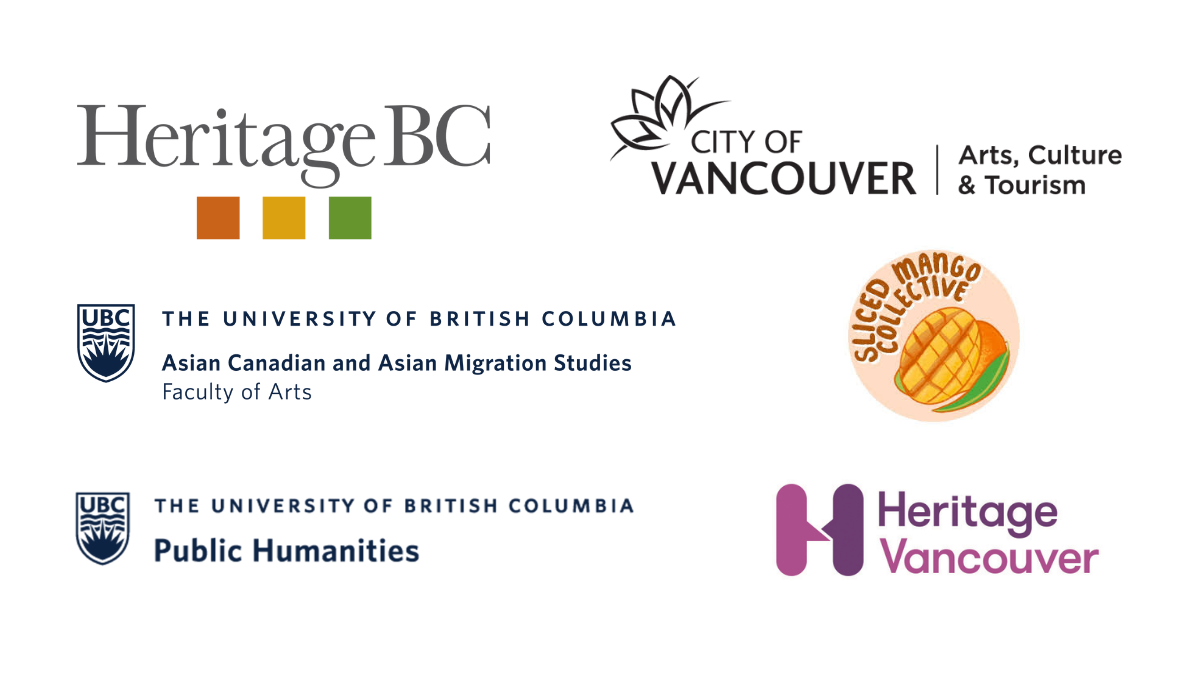
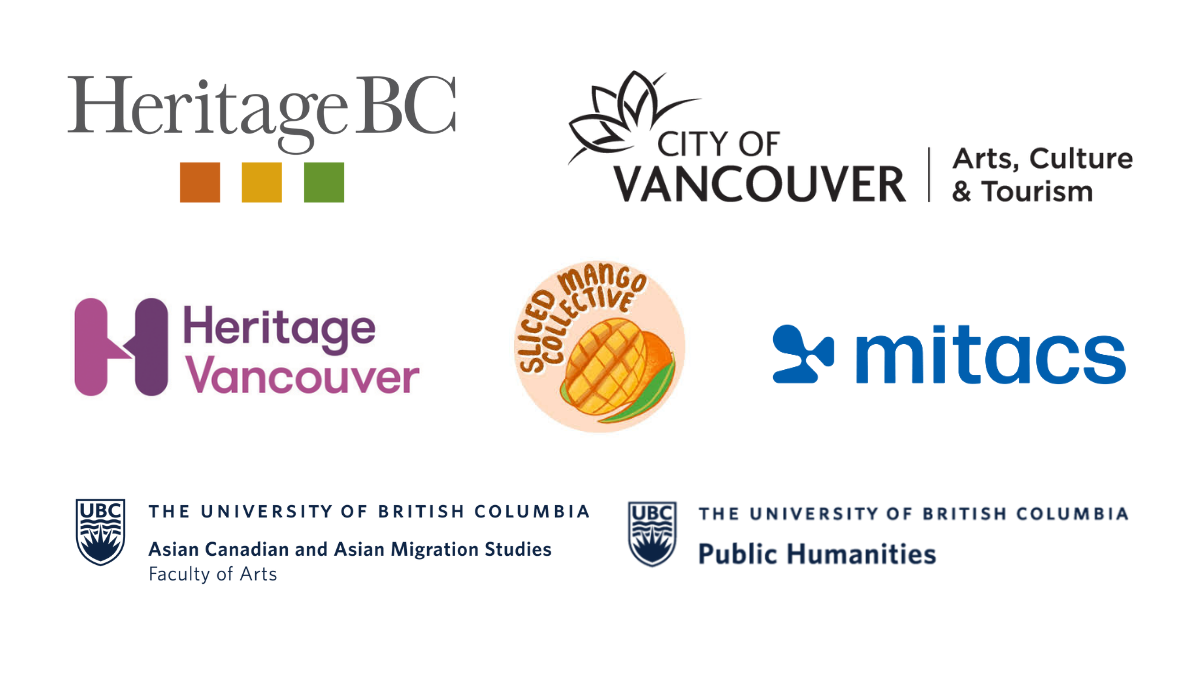
updated about, sponsors, and metadata file

diff --git a/pages/about.md b/pages/about.md
@@ -44,19 +44,30 @@ We were fortunate that an opportunity came up with the one time Provincial 150 T
 
 ## Project Team
 
+**[Sliced Mango Collective](https://www.instagram.com/slicedmangoco/)**
 - Anne Claire Baguio
-- JP Catungal
-- Sydney Lines
-- Jasper Mallonga 
+- Jasper Mallonga
 - Jocelle Refol
-- Szu Shen
-- Alyssa Sy de Jesus
-- amanda wan
-- Bill Yuen
 - Kathleen Zaragosa
+
+**University of British Columbia**
+
+[Asian Canadian and Asian Migration Studies](https://acam.arts.ubc.ca/)
+- Dr. JP Catungal 
+- Szu Shen
+- amanda wan
+
+[PhD Arts Co-op Placement](https://artscoop.ubc.ca/graduate/phd-co-op/)
+- Sydney Lines 
+
+**[Heritage Vancouver Society](https://heritagevancouver.org/)**
+- Bill Yuen
+
+**Community Consultants**
+- Alyssa Sy de Jesus
 
 ## Partners and Sponsors
 
 {% include feature/image.html objectid="/assets/img/kp-sponsors.png" width="75" %}
 
-We gratefully acknowledge the financial support of the Province of British Columbia through the [150 Time Immemorial Grant Program](https://heritagebc.ca/funding/gov-funding/150-time-immemorial-grant-program/), the [City of Vancouver Cultural Grants Program](https://vancouver.ca/people-programs/cultural-grants-program.aspx), and the Quan Lee Excellence Fund in [Asian Canadian and Asian Migration Studies](https://acam.arts.ubc.ca/). In kind support provided by the [UBC Public Humanities Hub](https://publichumanities.ubc.ca/). 
+We gratefully acknowledge the financial support of the Province of British Columbia through the [150 Time Immemorial Grant Program](https://heritagebc.ca/funding/gov-funding/150-time-immemorial-grant-program/), the [City of Vancouver Cultural Grants Program](https://vancouver.ca/people-programs/cultural-grants-program.aspx), the [Mitacs Business Strategy Internship](https://www.mitacs.ca/our-programs/business-strategy-internship/), and the Quan Lee Excellence Fund in [Asian Canadian and Asian Migration Studies](https://acam.arts.ubc.ca/). In kind support provided by the [UBC Public Humanities Hub](https://publichumanities.ubc.ca/). 
